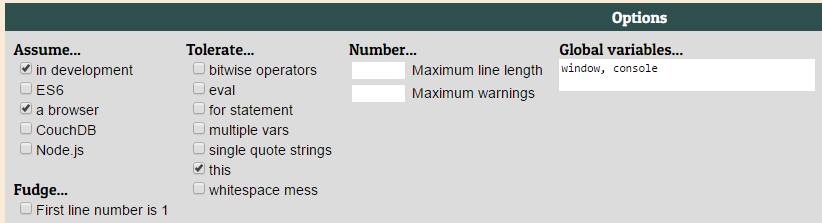
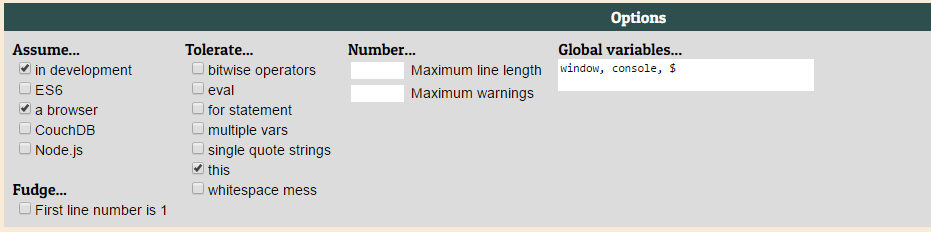
jslint changes
1. Removed trailing spaces as per jslint warnings
2. Added $ to the global variables of jslint options

diff --git a/jstodo/JQuery_version/todo.js b/jstodo/JQuery_version/todo.js
@@ -11,7 +11,7 @@
     /* jslint
         this, es6
     */
-    /** 
+    /**
     * namespace for todo application
     * @namespace todo
     */
@@ -28,9 +28,9 @@
     todo.classInfo = {
         "taskRow": "taskRow",
         "taskAction": "taskAction"
-    }
+    };
     /**
-    * @module events - All the events associated with todo module 
+    * @module events - All the events associated with todo module
     */
     todo.events = (function () {
         var isValidInput;
@@ -53,22 +53,22 @@
             }
         };
         /**
-        * Event listener function when the user clicks on edit of a task    
+        * Event listener function when the user clicks on edit of a task
         */
         clickOnEdit = function () {
-            var $TaskRow = $(this).parents("." + todo.classInfo.taskRow); 
+            var $TaskRow = $(this).parents("." + todo.classInfo.taskRow);
             var $Action = $TaskRow.children("." + todo.classInfo.taskAction);
             var $TaskText = $TaskRow.children("label");
-            var sTaskText = $TaskText.text();            
-            var $EditInput = $("#" + todo.idInfo.editTaskInput);            
+            var sTaskText = $TaskText.text();
+            var $EditInput = $("#" + todo.idInfo.editTaskInput);
             // If one of the tasks is already being edited, other tasks should not be editable
-            if($EditInput.parent().attr("class") !== "taskRow"){
-                $TaskText.text(""); // clears the task text currently displayed in the row 
-                $EditInput.on("keyup", enterOnEditInput); 
+            if ($EditInput.parent().attr("class") !== "taskRow") {
+                $TaskText.text(""); // clears the task text currently displayed in the row
+                $EditInput.on("keyup", enterOnEditInput);
                 $EditInput.val(sTaskText);
                 $EditInput.insertBefore($Action);
                 $(this).unbind("click");
-            }            
+            }
         };
         /**
         * Event listener function when the user fills in the text box on edit and presses, enter
@@ -76,14 +76,14 @@
         */
         enterOnEditInput = function (e) {
             // May be we can check th ekey before and call this function when only enter is pressed
-            if (e.keyCode === 13) { // checks if the button pressed is 'enter'                
+            if (e.keyCode === 13) { // checks if the button pressed is 'enter'
                 var $TaskRow = $(this).parents("." + todo.classInfo.taskRow);
                 var $TaskText = $TaskRow.children("label");
                 var sTaskText = $(this).val();
                 var $Edit = $TaskRow.children("." + todo.classInfo.taskAction).children().first();
                 var $HiddenTaskDiv = $("#" + todo.idInfo.hiddenTaskDiv);
                 if (isValidInput(sTaskText)) { // Adds only if the input is not empty
-                    $TaskText.text(sTaskText);                    
+                    $TaskText.text(sTaskText);
                     $(this).value = "";
                     $HiddenTaskDiv.append($(this));
                     $Edit.on("click", clickOnEdit);
@@ -98,15 +98,15 @@
         */
         clickOnDelete = function () {
             var $TaskRow = $(this).parents("." + todo.classInfo.taskRow);
-            var $Action = $TaskRow.children("." + todo.classInfo.taskAction);            
+            var $Action = $TaskRow.children("." + todo.classInfo.taskAction);
             // @todo implement a confirmation for deleting a task
             var $HiddenTaskDiv = $("#" + todo.idInfo.hiddenTaskDiv);
             var $EditInput = $("#" + todo.idInfo.editTaskInput);
             // If the task being deleted is already being edited, editinput box is moved back to the hidden div element before deleteing the entire row
-            if($Action.siblings(todo.idInfo.editTaskInput).length > 0){
-                $HiddenTaskDiv.append($EditInput);                 
-            }            
-            $TaskRow.remove(); 
+            if ($Action.siblings(todo.idInfo.editTaskInput).length > 0) {
+                $HiddenTaskDiv.append($EditInput);
+            }
+            $TaskRow.remove();
         };
         /**
         * creates and returns a html structure for a task row
@@ -169,7 +169,7 @@
         };
         /**
         * Event listener function when user enters an input and presses enter button or clicks 'Add'
-        * @param event 
+        * @param event
         */
         addNewRow = function (e) {
             if ((e.type === "click" && e.target.id === todo.idInfo.addButton) || (e.keyCode !== undefined && e.keyCode === 13)) {
@@ -189,7 +189,7 @@
                 var $TaskAdd = $("#" + todo.idInfo.addButton);
                 $TaskAdd.on("click", addNewRow);
                 var $TaskInput = $("input[name='taskInput']");
-                $TaskInput.on("keyup", addNewRow);                
+                $TaskInput.on("keyup", addNewRow);
             }
         };
     }());
@@ -205,14 +205,14 @@
             * @returns new dom element created
             */
             newDomElement: function (jInfo) {
-                var $NewEle = $("<" + jInfo.tagName + ">", jInfo.jAttributes);                
+                var $NewEle = $("<" + jInfo.tagName + ">", jInfo.jAttributes);
                 return $NewEle;
             },
-            /** 
+            /**
             * integers are used as id's for each task
             * @returns {0|maxid}, 0 if there are no tasks, int(id) + 1 of the last task displayed
             */
-            getMaxTaskId: function () {                
+            getMaxTaskId: function () {
                 var iMaxTask = $("." + todo.classInfo.taskRow + ":last").children("input[type='checkbox']").attr("id");
                 var iTaskId;
                 if (Number.isNaN(iMaxTask) || (iMaxTask === undefined)) {
@@ -229,8 +229,8 @@
     */
     $(window).on("error", function (e) {
         var sError = e.originalEvent.error;
-        console.log(sError); // Can be saved to server logs instead        
-    });   
+        console.log(sError); // Can be saved to server logs instead
+    });
     /**
     * Initializing the todo application
     */
